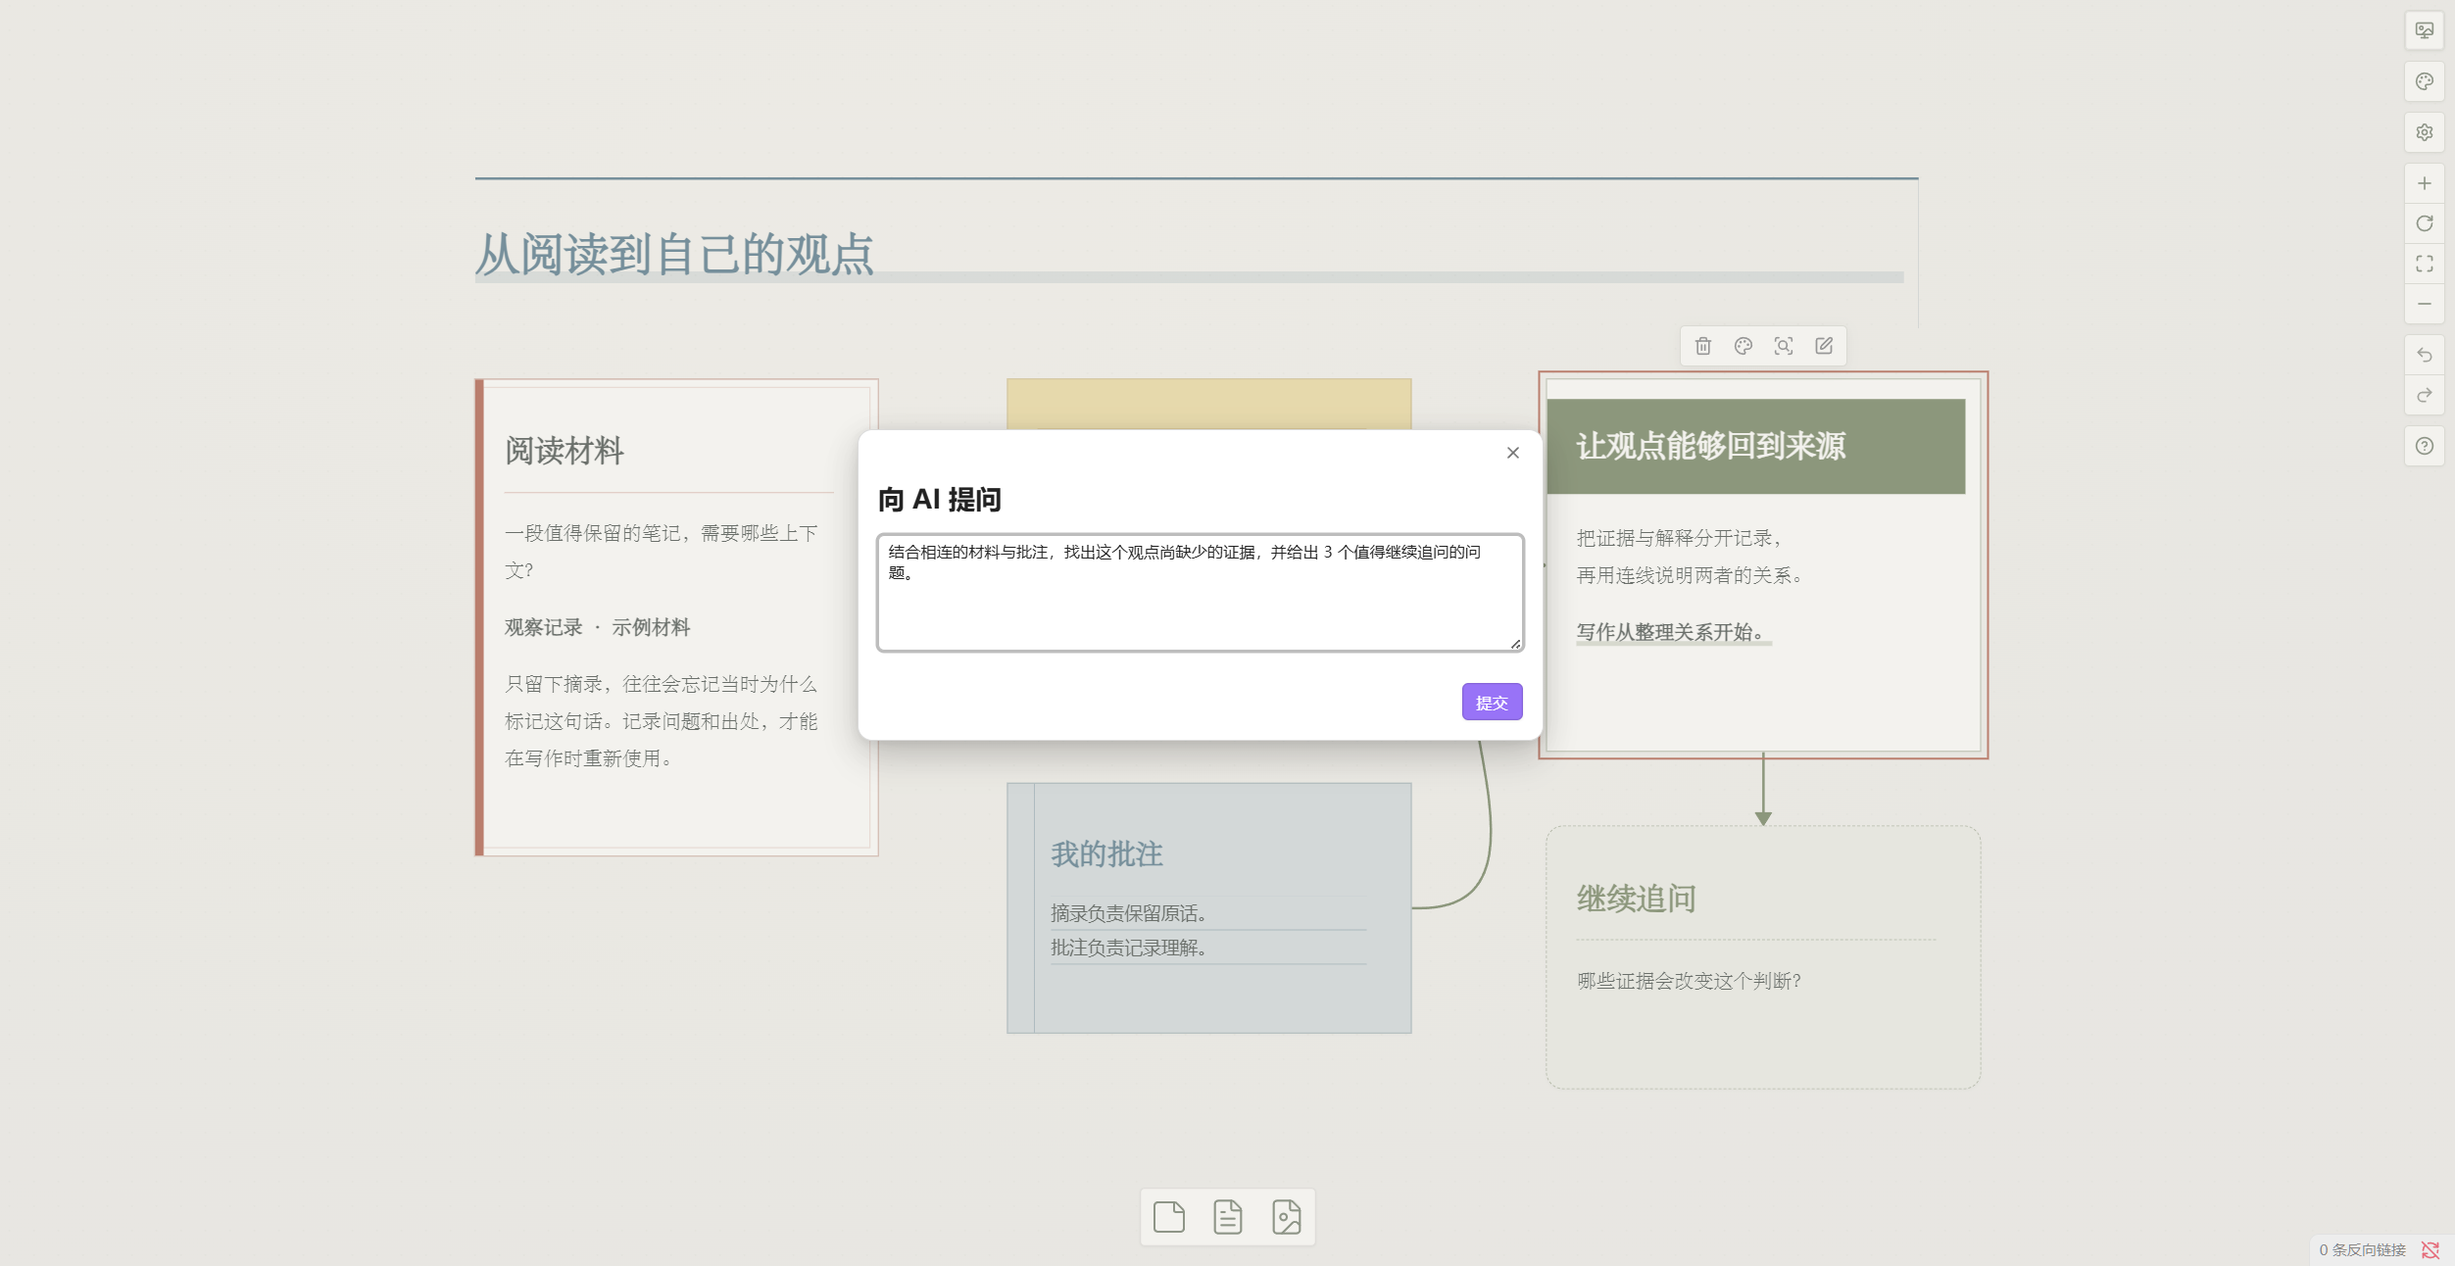
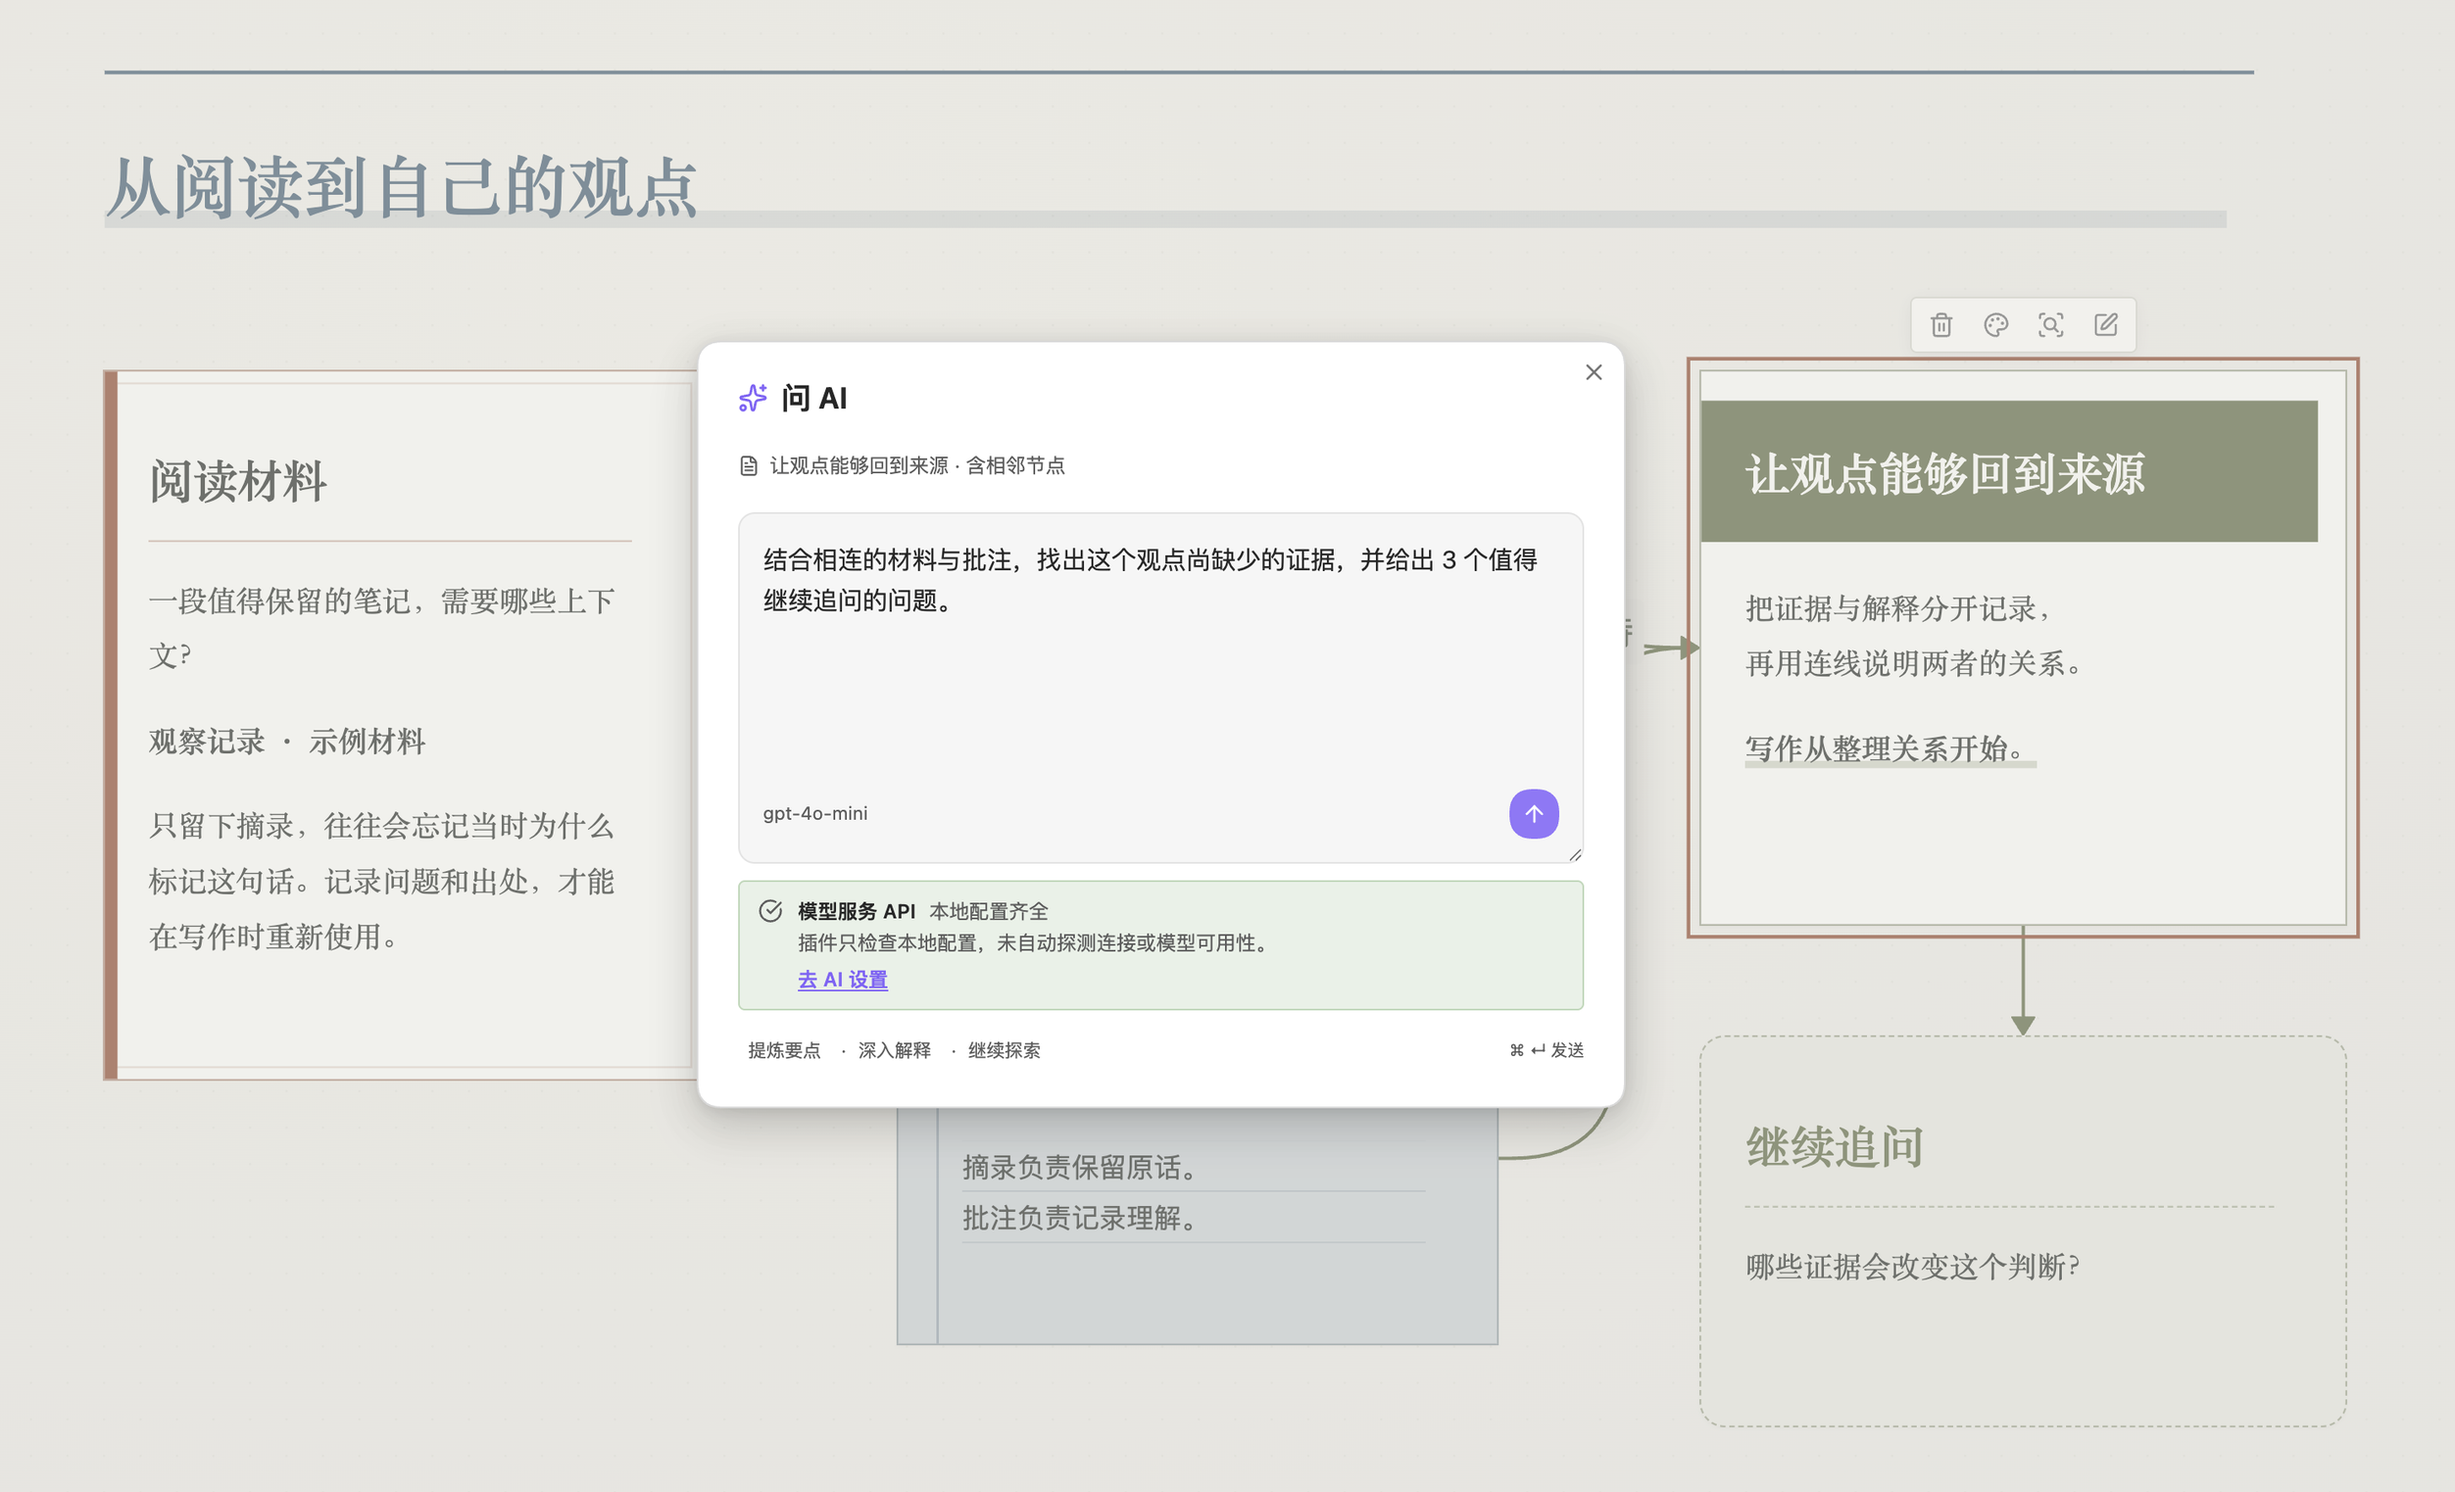
docs: refresh the AI prompt screenshot (#174)
Re-shoot docs/screenshots/ai-prompt.png from the current build so the
image matches the redesigned ask-AI modal (status row, starter prompts,
model label, send button). The new capture is tighter: canvas at 110%,
chrome and the bottom card toolbar cropped out.

Record the capture environment for this one image in
docs/screenshots/README.md and note in README.md that the screenshot set
now spans Windows and macOS hosts.

diff --git a/docs/screenshots/README.md b/docs/screenshots/README.md
@@ -18,6 +18,23 @@
 
 截图通过官方 CLI 的 `dev:screenshot` 采集。使用 `eval` 核对当前画布、主题属性、节点数量和界面状态。后台窗口出现旧帧的截图已弃用；最终图片逐张目视核对。
 
+### `ai-prompt.png` 重采集（2026-10-25）
+
+提问弹窗在 2026-10-25 改版（状态提示、快捷提问、模型名与发送按钮），因此单独重拍了这张图，其余 7 张仍是上表的环境。
+
+| 项目 | 值 |
+| --- | --- |
+| 日期 | 2026-10-25，Asia/Shanghai |
+| 应用 | macOS / Obsidian Desktop 1.14.4 |
+| 插件来源 | `e0fdb8f` 的本地构建；测试 Vault、仓库根目录与 `release/` 的 `main.js` SHA-256 一致 |
[1 lines of base64/hex data omitted]
+| 外观 | Obsidian 默认主题、浅色外观；画布为纸本研究主题 |
+| 窗口 | 2000 × 1094 CSS 像素，设备像素比 2，左右侧栏收起，画布缩放到 110% |
+| 输出尺寸 | 2505 × 1523 |
+| AI | 打开提问弹窗并输入示例提示词，未点击发送；测试期间设置的示例 API 密钥与模型已还原 |
+
+该图用 `Page.captureScreenshot`（CDP）取当前帧，裁到画布内容四周仅留少量留白（去掉标题栏、标签栏、路径栏、底部卡片工具栏），缩放到与其余截图相同的 2505 像素宽。因为裁切更紧，高度比其他截图高。图中的状态条显示「本地配置齐全」，只代表插件检查了本地字段，不代表连接或模型可用。
+
 图片裁掉标题栏、标签栏与文件路径。场景图保留画布区域，主题选择器图裁至弹窗及周围留白。使用无损 PNG 压缩，未拼接界面或修改截图中的文字、颜色和产品控件。
 
 ## 取材与操作
@@ -31,7 +48,7 @@
 | `sketch.png` | 手绘轮廓、排线、功能预设和旁注 | 打开手绘示例，显示概念到实验的流程 |
 | `scrapbook.png` | 胶带、横线纸、撕边纸、标签与照片框 | 打开拼贴示例，加载本地 `postcard.svg` |
 | `mind-map.png` | 默认外观下的分支结构 | 打开预先编排的 10 节点示例，显示完整结构 |
-| `ai-prompt.png` | 从观点卡发起提问 | 选中 `argument` 节点，执行 `obsidian-better-canvas:ask-ai`，填写提示词后截图，未提交 |
+| `ai-prompt.png` | 从观点卡发起提问 | 选中 `argument` 节点，执行 `obsidian-better-canvas:ask-ai`，填写提示词后截图，未提交（2026-10-25 重拍） |
 
 示例的文字、位置与连线预先写入 `.canvas` 文件。截图展示当前构建的渲染效果，不将示例导入称为通过快捷键创建或自动布局的验证。拼贴插画复用仓库已有的 `docs/examples/scrapbook-postcard.svg`。
 
